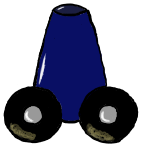
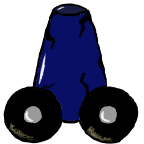
cannonの画像が切り替わるようスクリプト追加

diff --git a/ufo/Assets/Script/Player/SpriteChange.cs b/ufo/Assets/Script/Player/SpriteChange.cs
@@ -5,13 +5,13 @@ using UnityEngine;
 public class SpriteChange : MonoBehaviour
 {
     [SerializeField]
-    private GameObject cannonSprite;
+    private SpriteRenderer spriteRender;
     [SerializeField]
-    private Sprite secondSprite;
+    private Sprite Sprite1;
     [SerializeField]
-    private Sprite thirdSprite;
+    private Sprite Sprite2;
 
-    private int hpCount;
+    public int hpCount = 2;
 
     // Start is called before the first frame update
     void Start()
@@ -22,12 +22,18 @@ public class SpriteChange : MonoBehaviour
     // Update is called once per frame
     void Update()
     {
-        
+        cannonChange();
+    }
+
+    private void cannonChange(){
+        if (hpCount == 1){
+            spriteRender.sprite = Sprite2;
+        }
     }
 
     private void OnTriggerEnter2D(Collider2D other){
         if (other.gameObject.tag == "beam"){
-            
+            hpCount -= 1;
         }
     }
 }
